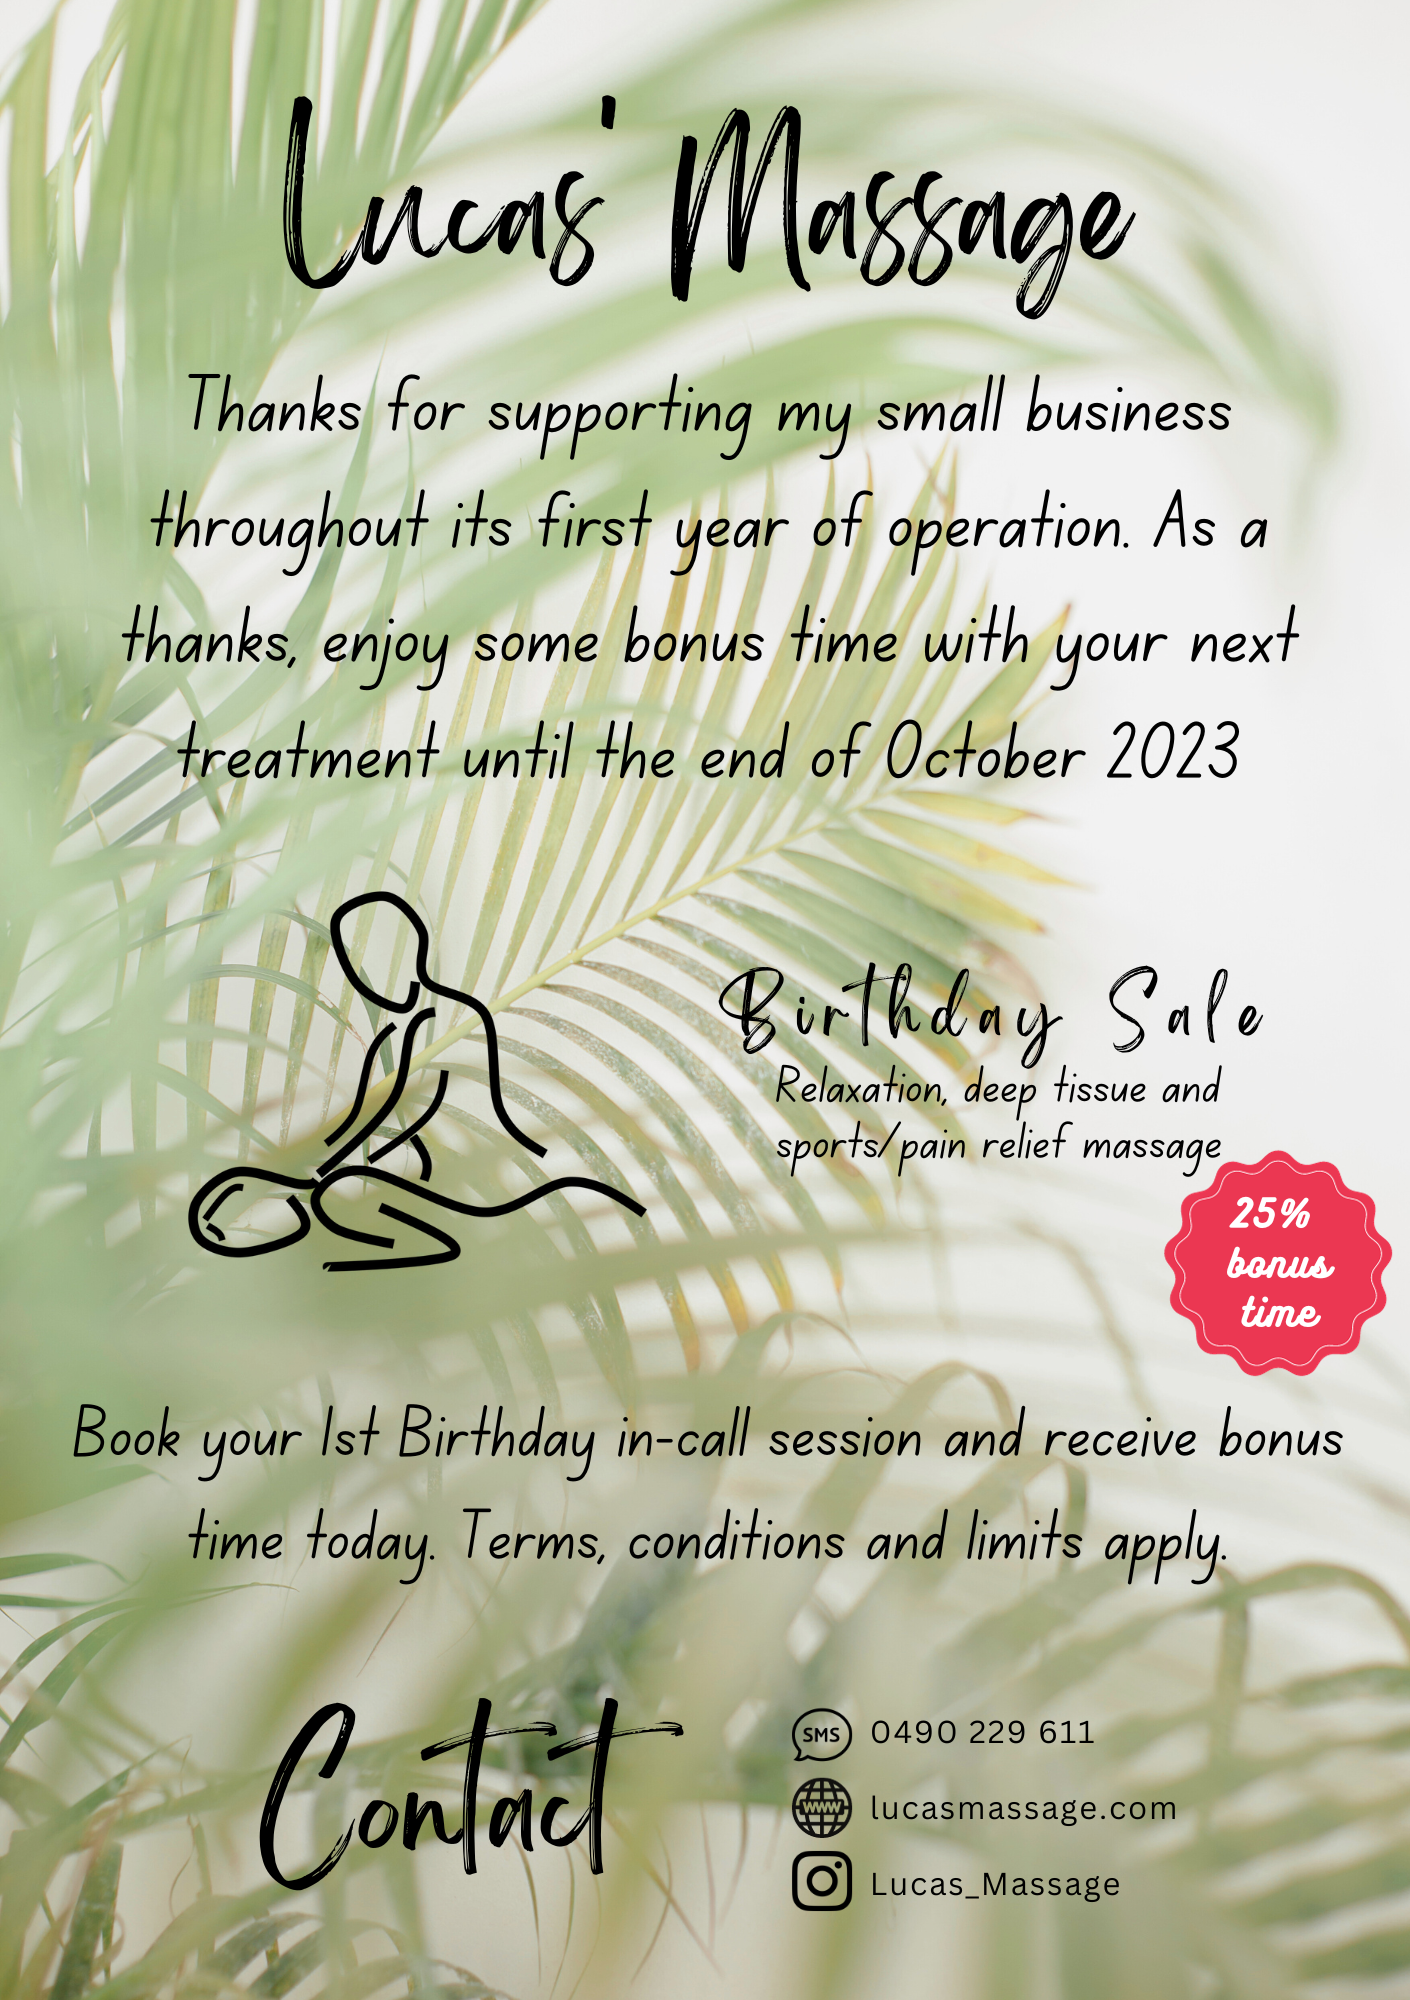
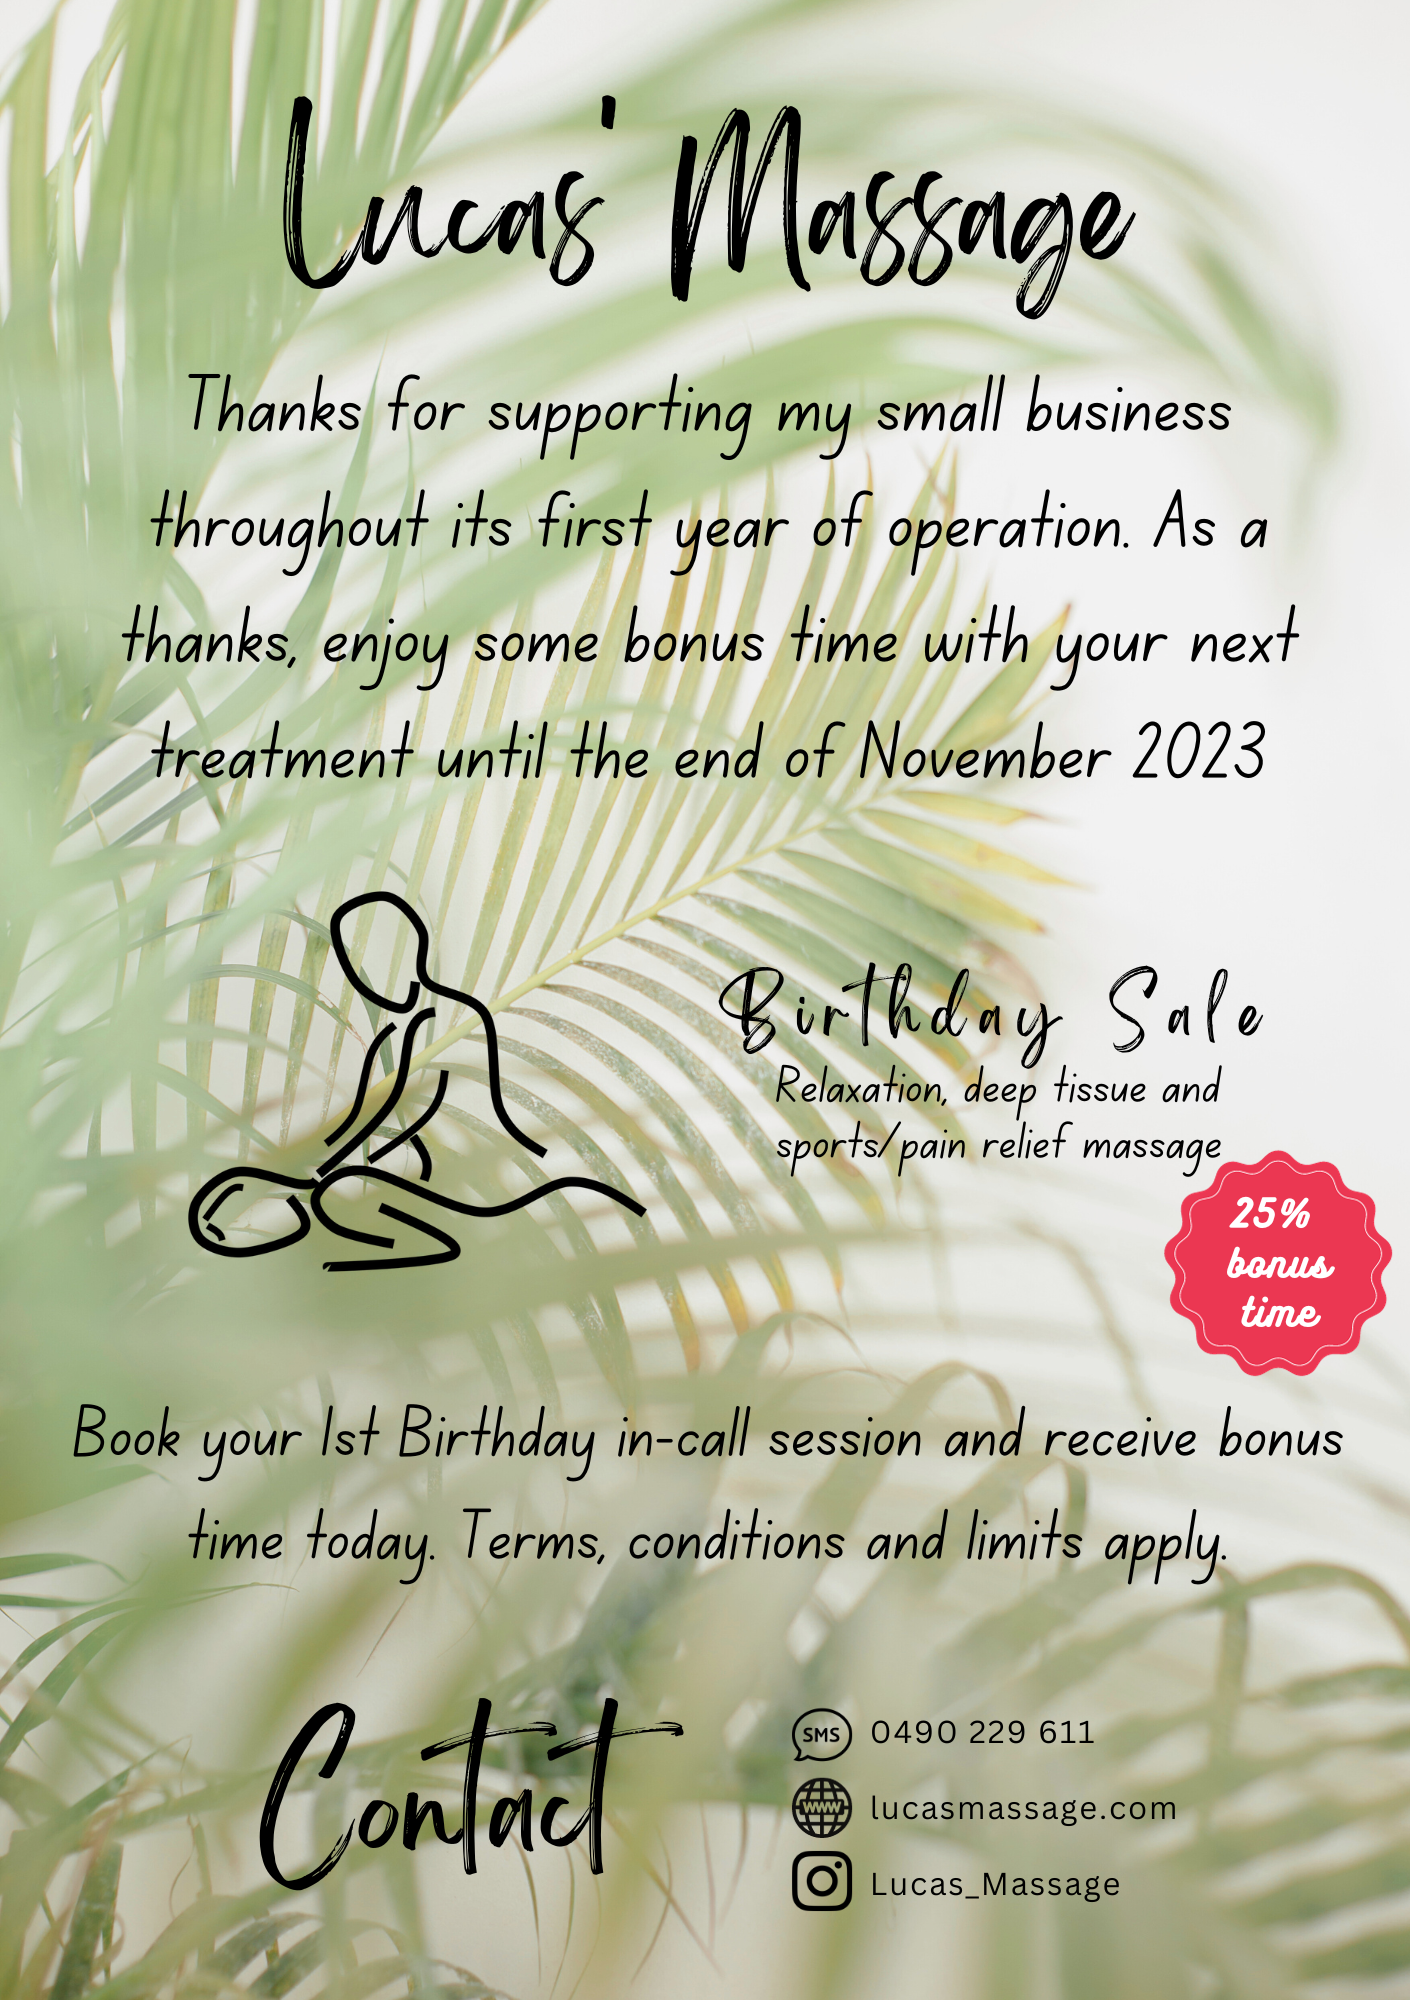
Update duration

Changed region(s): [[0.1248, 0.341, 0.905, 0.403]]

diff --git a/birthday/index.html b/birthday/index.html
@@ -160,7 +160,7 @@
                 <li>is limited to one "birthday celebration" booking per customer</li>
                 <li>cannot be redeemed for cash</li>
                 <li>must be taken as an in-call service in my Knoxfield clinic</li>
-                <li>requires a booking to be made before 31st October 2023 and be completed by 30th November 2023</li>
+                <li>requires a booking to be completed by 30th November 2023</li>
                 <li>is subject to availability</li>
                 <li>is for a mimimum 1-hour treatment</li>
                 <li>may be revoked at any time</li>
